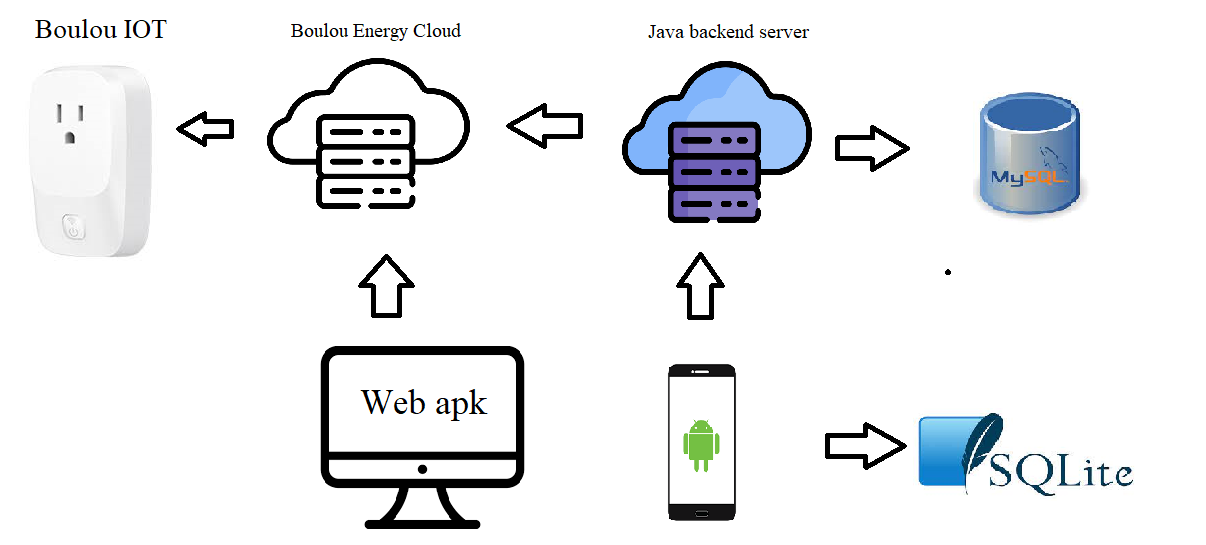
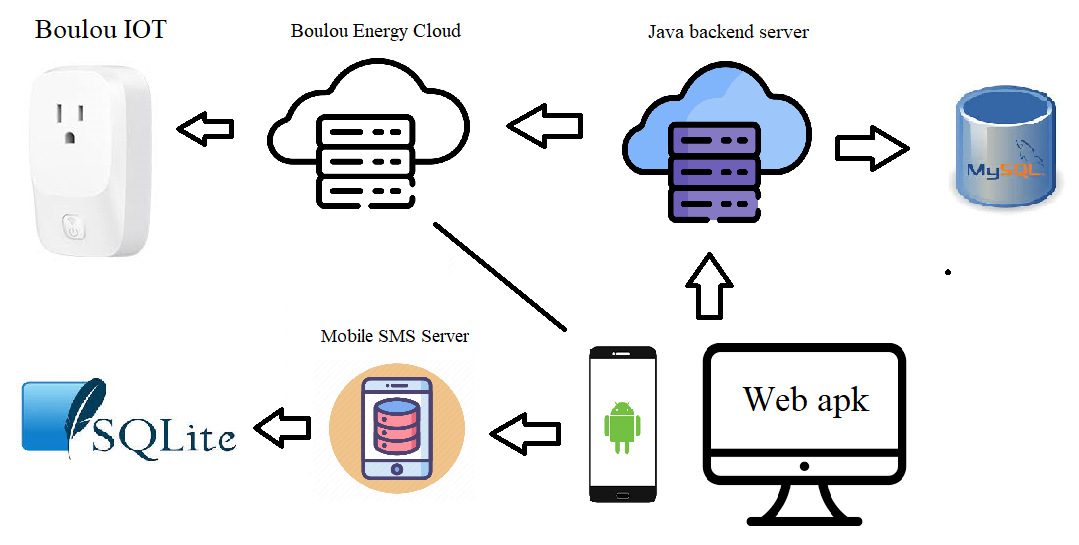
last_push

diff --git a/Readme.md b/Readme.md
@@ -1,0 +1,11 @@
+Jquery est le web app avec les fonctionalités: switch device,  horaire, timer, gestion de consommation(seuil) , historique des sènes .
+
+L'apk Android_java possède les fonctionalités de Native Jquery mais en plus l'extinction sans connexion par SMS(ON/OFF ou ON/OFF avec horaire) et la réception d'alerte en cas de seuil de consommation atteint 
+
+React_native est le serveur mobile recois les SMS d'instructions en les éxecutant après et gère les numéros qui peuvent faire des instructions
+
+API Spring MVC est le coeur des fonctionalités dans les front end mobile et web qui gère les services Dao avec la relation front et le Cloud de Boulou
+
+La Reconnaissance vocale est un package JAVA pret a importer dans l'application mobile pour donner une instruction vocale d'allumage ou d'extinction de la prise 
+
+
